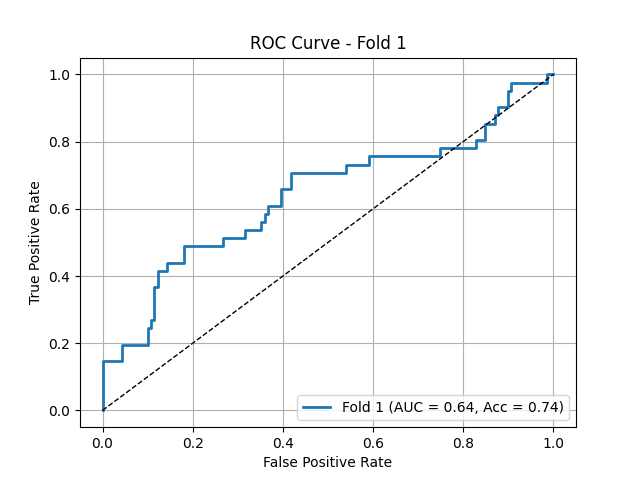
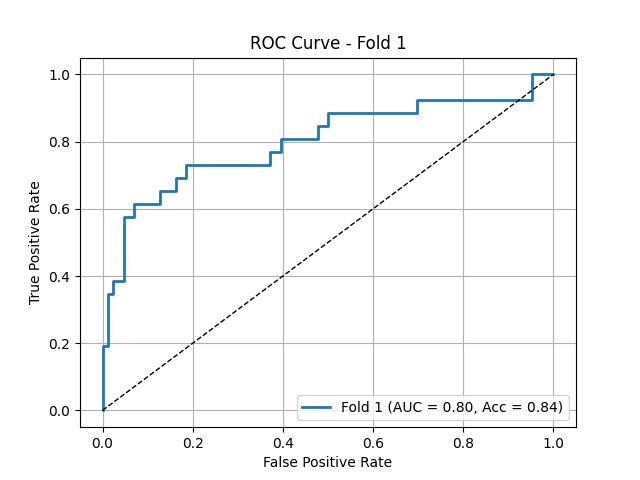
reducing the augmentation values

diff --git a/dataset_washu2.py b/dataset_washu2.py
@@ -81,9 +81,9 @@ train_transform = A.Compose([
     A.VerticalFlip(p=0.5),
     A.RandomRotate90(p=0.5),
 
-	A.ShiftScaleRotate(shift_limit=0.005, scale_limit=0.005, rotate_limit=10, border_mode=0, value=0, p=0.5), 
-    A.ElasticTransform(alpha = 10, sigma = 250, p=0.5),
-    A.GridDistortion(distort_limit=(-0.4,0.4), p=0.5),
+	A.ShiftScaleRotate(shift_limit=0.005, scale_limit=0.005, rotate_limit=(-10,10), border_mode=0, value=0, p=0.5), 
+    A.ElasticTransform(alpha = 5, sigma = 250, p=0.5),
+    A.GridDistortion(distort_limit=(-0.2,0.2), p=0.5),
 	A.GaussNoise(std_range=(0.02, 0.05), p=0.9),
     A.RandomBrightnessContrast(brightness_limit=(0, 0.01), contrast_limit=(0, 0.01), p=0.5),
     # #A.CLAHE(clip_limit=.5, tile_grid_size=(8, 8), p=0.5),
